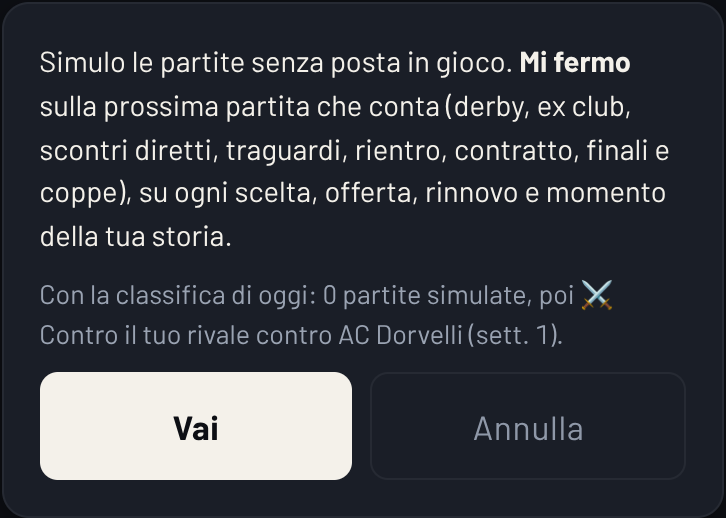
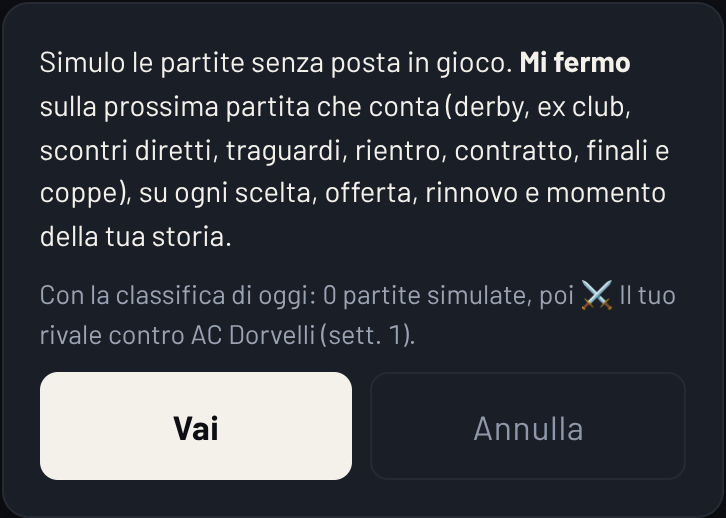
Giro 165: rapporto, foto definitive e indice-163 adeguato (la barra resta solo in Primavera)
Catena completa verde un passo alla volta: test:vision 43, test:logic 51, typing-shortcuts,
tripath-chokepoint, design-system, save-compat, replay, career-invariants, stab-nat-trigger,
career-sim, career-critical 11/11, salta-163, indice-163 (verde e rosso), griglia-mobile,
validate-situations PASS 00001505, partita-vera 12/12, momento-165 33/33 (rosso uscita 1).

Claude-Session: https://claude.ai/code/session_01QEYiaASdDJQDdso1CLXtsM

Changed region(s): [[0.0606, 0.6178, 0.7879, 0.6795], [0.8485, 0.556, 0.9394, 0.5869]]

diff --git a/docs/sviluppo/RAPPORTO-giro165.md b/docs/sviluppo/RAPPORTO-giro165.md
@@ -1,0 +1,200 @@
+# Rapporto giro 165 — «Vai al prossimo momento» da professionista
+
+**PO-364 · opzione B del giro 164 (decisione PO «B e C insieme»: qui solo la B; la C è del giro 166, motore partita non toccato)**
+Ramo `sviluppo/giro165-momento-pro`, base `sviluppo/giro163-primavera-f3` (828d826). `GAME_VERSION` **non toccata** (7.999.190 nel file).
+`SAVE_VERSION` resta 9: **nessun campo nuovo nel salvataggio** (regola pura, il tasto vive solo in memoria).
+Build: `node tools/build-src.mjs` + `node tools/check-src.mjs` → «IDENTICO BYTE PER BYTE» dopo ogni modifica a `src/`.
+
+---
+
+## 1. Cosa ho misurato prima di cambiare
+
+Sonda del giro 164 (`tests/visual/stagione-pro-164.mjs`, presa dal ramo `collaudo/giro164-stagione-pro`), quattro profili pro,
+tre stagioni (la 3 non è rappresentativa: senza coppe, vedi §1 del 164). Ho aggiunto alla sonda **una sola cosa**: per ogni
+partita registra anche `posta165(P, voce di calendario)` (campo `p165`) e il tipo di gara (`mdT`), così **prima e dopo si
+leggono sulla stessa partita, nello stesso giro**. Conteggio: una partita = una voce (stagione, settimana, giornata, tipo);
+le gare della Nazionale escluse da entrambe le colonne, come nel §5 del 164.
+
+- **Prima** = regola §5 del 164: gara non di campionato, oppure `calcMatchWeight ≥ 5`.
+- **Dopo** = `posta165` (sotto).
+
+| Profilo (prestigio) | S3 (solo campionato) | **S4** | **S5** |
+|---|---|---|---|
+| basso-tit (FC Salento, 62) | 0 → 16 su 34 | **3 → 13** su 36 | **4 → 23** su 37 |
+| medio-tit (FC Brenvar, 77) | 0 → 14 su 34 | **4 → 20** su 38 | **11 → 27** su 45 |
+| alto-tit (Torino Athletic, 95) | 4 → 18 su 34 | **12 → 22** su 45 | **15 → 28** su 44 |
+| alto-ris (Torino Athletic, riserva) | 6 → 15 su 34 | **12 → 26** su 45 | **12 → 29** su 45 |
+
+Obiettivo indicativo «almeno 8-12 fermate a stagione anche per un club basso»: **raggiunto** (13-23 sulle stagioni 4-5).
+Per i club medio e alto si va **oltre** il 12 (20-29): vedi domanda 2.
+
+Da dove vengono le fermate (stagioni 4-5, giro definitivo): basso S5 «contratto in bilico» 8, «sfida alla capolista» 5,
+«lotta salvezza» 3, coppa 3, rivale 2; medio S5 coppa europea 7, coppa 4, scontro diretto 4, capolista 3, «a un gol dai 50» 3;
+alto-tit S5 coppa europea 9, corsa al titolo 8; alto-ris S5 contratto in bilico 8, coppa europea 7, coppa 4. Il «contratto in
+bilico» compare nella stagione 5 perché i salvataggi sintetici hanno il contratto fino alla 6 (durata 1 nella 5) e la fiducia
+del mister è scesa sotto 55.
+
+⚠ I «prima» di questo giro non coincidono con quelli del 164 (es. basso S5: 4 qui, 1 là): mercato, impulsi e risultati
+usano `Math.random`, due giri non giocano la stessa stagione. Il confronto prima/dopo regge perché è sulla stessa partita.
+
+Comandi:
+```bash
+cd tests/visual
+CPM_CHROME=/opt/pw-browsers/chromium PLAYWRIGHT_BROWSERS_PATH=/opt/pw-browsers node stagione-pro-164.mjs basso-tit medio-tit
+CPM_CHROME=/opt/pw-browsers/chromium PLAYWRIGHT_BROWSERS_PATH=/opt/pw-browsers node stagione-pro-164.mjs alto-tit alto-ris
+```
+(Il conteggio l'ho fatto con uno script di appoggio fuori dal repo: deduplica per stagione/settimana/giornata/tipo e conta.)
+
+---
+
+## 2. Cosa ho cambiato
+
+### 2.1 La regola di posta allargata — `posta165(p, md)` (`src/08-panchina-derby-meteo-cori.jsx`, in fondo, righe ~1016-1068)
+Funzione **pura** (legge salvataggio e voce di calendario, non scrive, nessun sorteggio). Ritorna l'etichetta della fermata o
+`null`. In ordine:
+1. gara non di campionato → riusa `partitaChiave163` («🏆 Coppa», «🌍 Coppa europea», «🏳 Nazionale»);
+2. **derby** → l'etichetta del derby (`partitaChiave163`);
+3. **ex club** («🔙 Ex club»): una stagione passata in un club diverso da quello di oggi (anche la Primavera da cui vieni), o la
+   memoria `ex_club` del mondo;
+4. **primo match dopo un infortunio** («🩹»): `justRecovered` e rientro in corso, e nessuna gara giocata da sano dopo lo stop;
+5. **traguardi personali** a un passo: 50ª/100ª/150ª… presenza in carriera, a un gol dai 50/100/150… in carriera, record
+   stagionale di lega a ≤ 2 gol (stessa fonte della card «Record watch»);
+6. **contratto in bilico** («📋»): in scadenza, non rinnovato, dalla settimana 28, fiducia del mister sotto 55;
+7. i rami di `calcMatchWeight`: **corsa al titolo** (W28+, fra le prime 4, a ≤ 9 punti), **lotta salvezza** (W25+, ultime 3),
+   **finale di stagione** (W37-38);
+8. **scontro al vertice / sfida a una delle prime tre** (`partitaChiave163`, la regola della «Prossima» sulla home);
+9. **il tuo rivale**;
+10. **scontro diretto in classifica** («📊»): dalla settimana 8, al massimo due posizioni e tre punti di distanza.
+
+Le soglie dei punti 5 e 6 (50/100…, fiducia 55) e la finestra del punto 10 sono **mie**: da confermare (domanda 3).
+
+### 2.2 Il tasto da professionista (`src/18-career-app.jsx`)
+Non è un tasto nuovo né un quarto percorso: è il meccanismo del giro 163 (`salta163`), che a ogni passo chiama `liveCurrentWeek`,
+il prompt della partita + `simulateAndAdvance`, oppure `doAdvanceWeek`. `tripath-chokepoint` verde senza modifiche.
+- righe ~1460-1470: `_pro165` (professionista e rosso spento), `_chiave165` (da professionista la fermata «partita» usa
+  `posta165`, in Primavera resta `partitaChiave163`), `_rinnovo165` (stesse condizioni della card «Il contratto scade»),
+  `_rinnVisto165` (il rinnovo ferma una volta per stagione);
+- `_saltaMotivo163`: da professionista il tasto non è più «solo in Primavera»; da svincolato «prima trova una squadra»; col
+  confronto del procuratore aperto «chiudi prima la finestra aperta»;
+- avvio: la corsa ricorda lo stato di partenza (`ps0`); si ferma se cambia (Primavera → pro come prima, «cambio di stato»);
+- **si ferma su**: partita con posta (prompt Gioca/Simula **aperto**, gara non giocata) · **ogni scelta** della settimana (da
+  professionista il riquadro con ≥ 2 scelte resta davanti al giocatore, nessuna scelta automatica) · offerta, trattativa,
+  procuratore, saga (come il 163) · **rinnovo** (card del contratto in scadenza, una volta per stagione; contratto scaduto) ·
+  chiamate della Nazionale · traguardi, momenti di carriera, verifiche del mister, interviste (come il 163) · infortunio nuovo ·
+  fine stagione · **qualunque altra finestra in primo piano** (righe ~1525-1530: il velo `.cpm-velo150` — confronto col
+  procuratore → «mercato», patto/spogliatoio → «scelta da fare», il resto → «momento importante»);
+- card sulla home (righe ~7744-7775): da professionista la card «corsa163» porta **solo il tasto** («⏩ Vai al prossimo momento»,
+  `data-g165="pro"`), niente Indice Primavera; il pannello di conferma ha il testo da professionista; il riepilogo ha la voce
+  «📋 Rinnovo»;
+- harness test-only: `chiave163` da professionista restituisce la posta allargata; nuovo `posta165(q, md)`.
+
+**Rosso `__CPM_NO_G165`**: da professionista il tasto non c'è (comportamento del giro 163). La Primavera non cambia in nessun braccio.
+
+### 2.3 Due difetti trovati dal guardiano e corretti (misura → correzione → rimisura)
+1. **La corsa ripartiva sotto il confronto col procuratore.** Il 163 lo fa fermare una volta per settimana; alla ripartenza nella
+   stessa settimana la corsa proseguiva con la finestra (non chiudibile) davanti. Misurato al 2° giro del guardiano (tasto coperto
+   dal velo `confronto253` a W20). Ora da professionista il tasto è spento con la finestra aperta e la corsa si ferma su ogni
+   velo. Rimisura: «veli che coprivano un tasto: []».
+2. **Etichetta con «contro» doppio** nell'anteprima («⚔ Contro il tuo rivale contro AC Dorvelli»): etichette ora «Il tuo
+   rivale», «Ex club».
+
+### 2.4 Test e strumenti
+- **Nuovo guardiano `npm run momento-165`** (`tests/visual/momento-165.mjs`, in `package.json` e in `ci-runner.mjs` accanto a
+  `salta-163`, catena `carriera` e mappe di `src/18` e `src/0[0-8]`).
+- `salta-163.mjs`: il controllo 6 «da professionista il tasto non c'è» ora apre la pagina con `__CPM_NO_G165` (è il
+  comportamento che quel controllo proteggeva; da professionista con il giro 165 acceso giudica `momento-165`).
+- `indice-163.mjs`: il controllo «professionista» guardava la card intera (`corsa163`) mentre il commento dice «niente barra»;
+  ora guarda la **barra** (`ip163`), che resta solo in Primavera. Nessuna soglia abbassata.
+- `stagione-pro-164.mjs`: aggiunti i campi `p165`, `mdT`, `mdC` per settimana (sonda, non guardiano).
+
+---
+
+## 3. Guardiano `momento-165`
+
+Giudica: la regola (ex club · primo match dopo l'infortunio e non dopo una gara già giocata · 99 presenze → 100ª · 49 gol →
+«a un gol dai 50» · contratto in bilico con fiducia 45 e non con 80 · derby · scontro diretto · settimana 38 · coppa · partita
+qualunque di metà classifica → null · stessa risposta due volte · salvataggio identico) · il tasto c'è da professionista a
+375×812 e a 1280×800 · il primo tocco chiede e non cambia nulla · «Annulla» · **una stagione intera col solo tasto** (FC
+Salento, prestigio 62): ogni gara simulata dal tasto era senza posta nell'istante (testimone `__CPM_SALTA153_SIM`), ogni fermata
+«partita» lascia il prompt aperto e la gara non giocata, ogni fermata «scelta da fare» lascia davanti il riquadro con ≥ 2 scelte,
+**almeno 8 fermate su partite con posta**, W39 con 34 gare di lega, una per settimana, calendario 34/34, classifica a 18, nessun
+errore di pagina · rinnovo: fermata «rinnovo» con la card sulla home e non riferma nella stessa stagione · un'offerta ferma
+la corsa · nessuno scorrimento orizzontale a 1280 · Primavera invariata (tasto e barra del 163).
+
+| Braccio | Esito |
+|---|---|
+| verde (build definitivo, tre giri) | **33/33, uscita 0** ogni volta |
+| rosso `CPM_ROSSO165=1` (`__CPM_NO_G165`) | 2 rossi (tasto assente → stagione non giocabile), **uscita 1** |
+
+**Tocchi per una stagione da professionista** (misura dichiarata, non giudicata; due giri verdi):
+
+| Giro | Tocchi | Corse del tasto | Fermate | Gare simulate dal tasto |
+|---|---|---|---|---|
+| 3° | 150 | 49 | 13 partite con posta, 27 scelte, 3 mercato, 5 momenti, 1 intervista | 21 |
+| 4° | 148 | 48 | 13 partite con posta, 29 scelte, 2 mercato, 4 momenti | 21 |
+| definitivo (dopo il ritocco delle etichette, con le foto) | 129 | 42 | 12 partite con posta, 20 scelte, 7 momenti, 2 interviste, 1 mercato | 22 |
+
+Partite con posta del giro definitivo: scontro diretto 4, sfida alla capolista 4, finale di stagione 2, rivale 1, lotta salvezza 1.
+Il conto è dominato dalle **scelte della settimana** (20-29 fermate, ognuna costa tasto + «Vai» + la scelta): vedi domanda 1.
+I tocchi contano anche le finestre chiuse dal banco fra due corse (confronto col procuratore 2, finestra230 2).
+
+---
+
+## 4. Catena (un controllo alla volta, `CPM_CI_PAR=0`, memoria libera e disco letti prima di ognuno)
+
+Memoria libera fra 15.181 e 15.525 MB, disco libero 29 GB in tutti i passi. Build `check-src` identico byte per byte.
+
+| Controllo | Esito |
+|---|---|
+| test:vision | 43/43 |
+| test:logic | 51/51 |
+| typing-shortcuts | PASS (19 s) |
+| tripath-chokepoint | PASS (3 percorsi, tutti i chokepoint) |
+| design-system | SISTEMA GRAFICO OK |
+| save-compat | PASS (10 s) |
+| replay | PASS (46 s) |
+| career-invariants | verde |
+| stab-nat-trigger | verde |
+| career-sim | CARRIERA OK, 2 stagioni |
+| career-critical (11 passi, uno alla volta) | 11/11 verdi: recovery-competition, save-monotonic, playing-mdref, double-tap, stale-matchday, playedmd-registry, career-invariants, pending-mr-durable, cup-final-replay, coppa-nazioni, coppa-intera |
+| salta-163 | verde 19/19 |
+| indice-163 | verde 23/23 · rosso `CPM_ROSSO163=1` 3 rossi, uscita 1 |
+| griglia-mobile | uscita 0 (235 s) |
+| momento-165 | verde 33/33 · rosso 2 rossi, uscita 1 |
+| validate-situations | **PASS**, fingerprint 00001505, 0 failure (709 s, in sottofondo con attesa in primo piano dentro il turno) |
+| partita-vera | uscita 0, braccio verde, 12 bande su 12 tenute, partite finite 2/2 |
+
+Gli scatti di griglia-mobile in `docs/collaudo-grafico/g0/` li ho riportati com'erano (non fanno parte del giro).
+Una prima corsa di `indice-163` sul build definitivo è uscita **rossa** (22/23: «professionista: la card non c'è»): era il
+controllo da adeguare descritto al §2.4, rifatta verde e rifatto il braccio rosso.
+
+---
+
+## 5. Foto (`docs/sviluppo/foto-giro165/`, scala 2)
+- **prima** (giro 163, `__CPM_NO_G165`): `prima/tasto-telefono-schermo.png` — home da professionista a 375×812, nessun tasto;
+- **dopo**, telefono 375×812: `tasto-telefono.png`, `conferma-telefono.png` (pannello con la prossima partita con posta),
+  `corsa-telefono.png` (in corsa, «Ferma»), `riepilogo-telefono.png`;
+- **dopo**, PC 1280×800: `tasto-pc.png`, `conferma-pc.png`, `riepilogo-pc.png` («Fermato da te»).
+  (`*-schermo.png` = schermo intero.)
+
+## 6. Fuori ambito (non fatto)
+Opzione C (partite a soli highlight, giro 166) · motore partita · riga di roadmap e bump di versione (li fa la sessione di
+rilascio) · il `Math.random` di mercato/impulsi · la stima del tempo di una stagione col tasto (non misurata in questo giro).
+
+## 7. Domande per la sessione madre (nessuna decisa qui)
+1. **Scelte della settimana.** Il mandato dice «si ferma a una scelta»: da professionista ogni riquadro con ≥ 2 scelte ferma la
+   corsa. Misurato: 20-29 fermate a stagione su 42-49 corse, 129-150 tocchi. In Primavera (163) le scelte di routine si fanno da
+   sole con estrazione seedata. Fermare solo sulle scelte «di storia» (mercato, procuratore, mister, `mile`) e scegliere da sole
+   le altre come in Primavera?
+2. **Quante fermate.** Club basso 13-23, medio 20-27, alto 22-29 partite con posta a stagione (obiettivo «almeno 8-12»). Se il PO
+   vuole un tetto, le voci più frequenti sono coppe/coppe europee (tutte), «sfida alla capolista» (1-6), «scontro diretto» (1-7),
+   «corsa al titolo» (8 quando si è in testa), «contratto in bilico» (8 nell'ultima stagione di contratto).
+3. **Soglie mie:** traguardi a 50/100/150… presenze e gol (10 e 25 esclusi perché arrivano già in Primavera); contratto in
+   bilico con fiducia < 55 dalla settimana 28; scontro diretto da W8, ≤ 2 posizioni e ≤ 3 punti; «finale di stagione» vale per
+   W37 **e** W38 (come il +3 di `calcMatchWeight`). Vanno bene?
+4. **Finestre in primo piano.** La fermata generica legge il DOM (`.cpm-velo150`) dall'effetto della corsa: robusta (prende anche
+   finestre nuove) ma non pura. Accettabile, o si preferisce un elenco esplicito di stati?
+5. **Primavera.** La correzione «tasto spento col confronto del procuratore aperto» e la fermata sui veli valgono solo da
+   professionista (ambito del giro). In Primavera lo stesso caso è possibile se il giocatore ha un procuratore: estenderla?
+6. Il rinnovo ferma **una volta per stagione** (alla prima settimana in cui appare la card); dopo, se il giocatore non rinnova,
+   la corsa prosegue. Va bene, o deve fermare a ogni corsa finché il contratto non è risolto?
